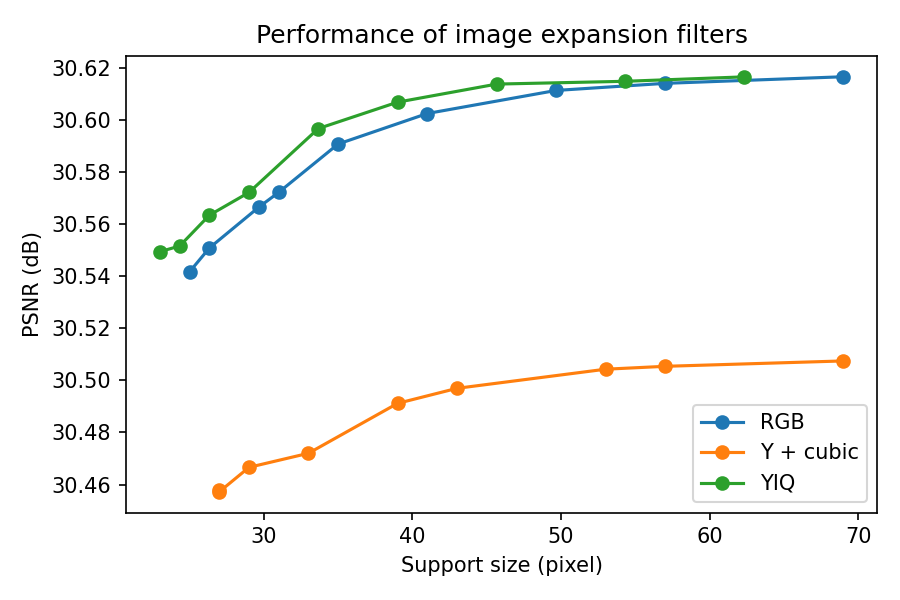
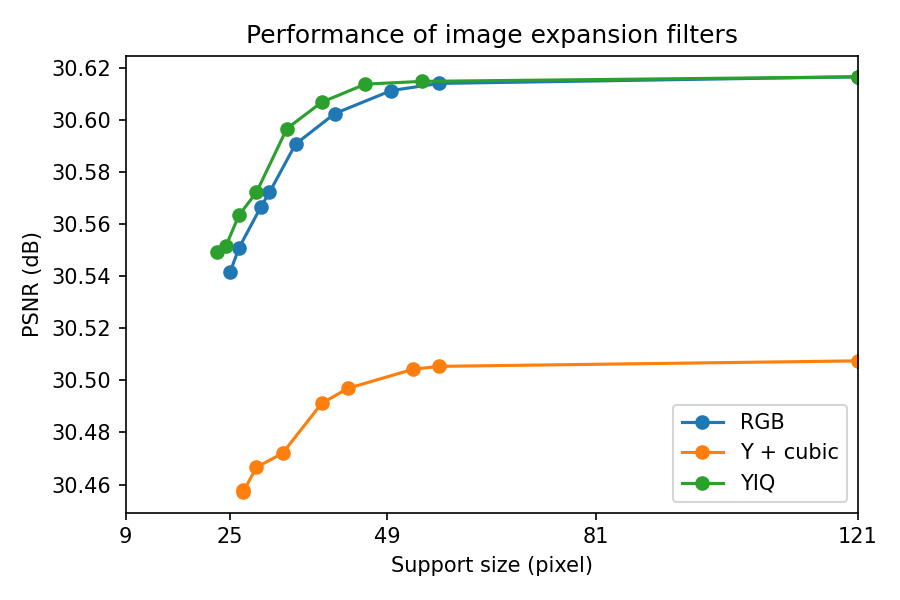
Changed x axis

diff --git a/run_paper_experiment.py b/run_paper_experiment.py
@@ -52,7 +52,7 @@ def make_model_args(args, a_alpha0):
         r=args.r,
         m=args.m,
         a_alpha0=a_alpha0,
-        b_alpha0=1e-12,
+        b_alpha0=2e-8,
         a_beta0=1e-6,
         b_beta0=1e-6,
         max_iter=args.max_iter,
@@ -78,6 +78,8 @@ def save_paper_style_plot(rows, modes, out_dir):
 
     plt.xlabel('Support size (pixel)')
     plt.ylabel('PSNR (dB)')
+    plt.xticks([9, 25, 49, 81, 121])
+    plt.xlim(9, 121)
     plt.title('Performance of image expansion filters')
     plt.legend()
     plt.tight_layout()

diff --git a/demo.py b/demo.py
@@ -327,7 +327,7 @@ def parse_args():
     parser.add_argument('--r', type=int, default=R)
     parser.add_argument('--m', type=int, default=PATCH_SIZE)
     parser.add_argument('--a-alpha0', type=float, default=A_ALPHA0)
-    parser.add_argument('--b-alpha0', type=float, default=1e-12)
+    parser.add_argument('--b-alpha0', type=float, default=2e-8)
     parser.add_argument('--a-beta0', type=float, default=1e-6)
     parser.add_argument('--b-beta0', type=float, default=1e-6)
     parser.add_argument('--max-iter', type=int, default=200)
